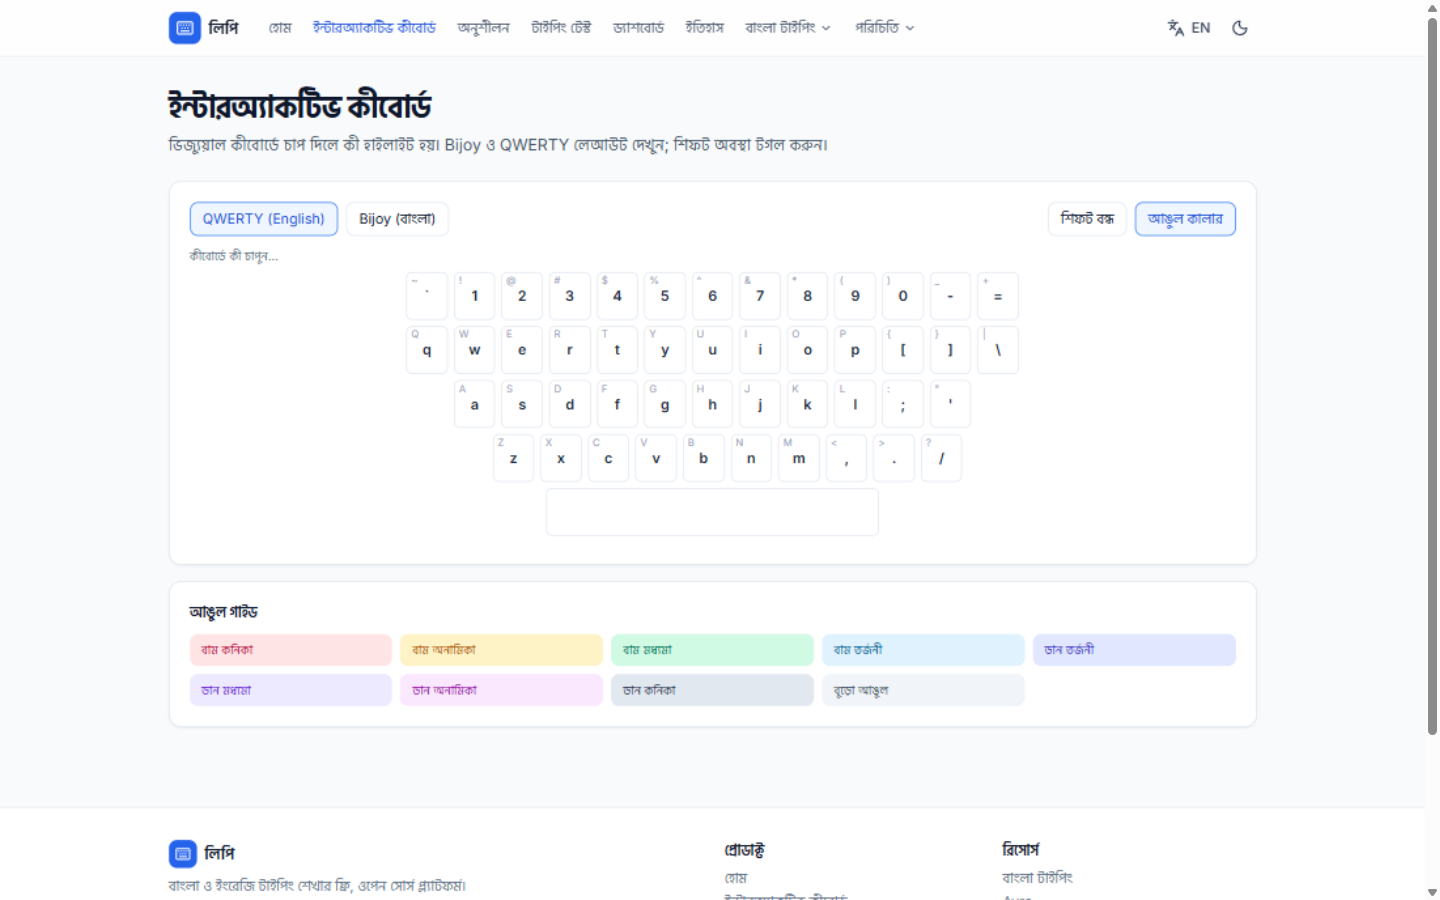
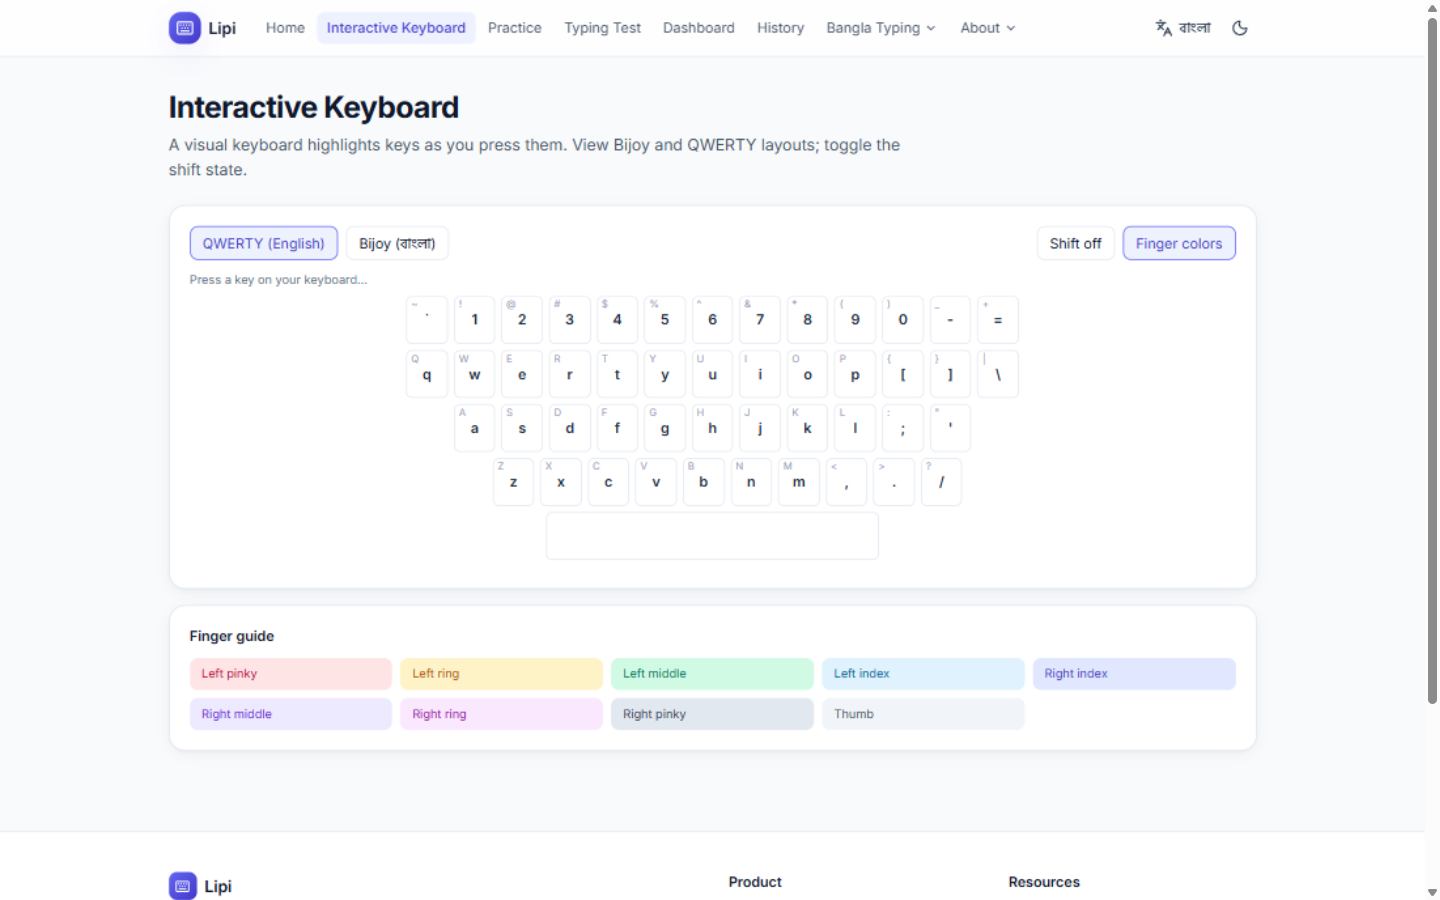
docs: Phase A changelog + refreshed README screenshots (new design)

diff --git a/CHANGELOG.md b/CHANGELOG.md
@@ -6,6 +6,26 @@ The format is based on [Keep a Changelog](https://keepachangelog.com/en/1.1.0/).
 
 ## [Unreleased]
 
+### Fixed (UI/UX audit, 2026-11-27)
+- **Lesson completion UI was stale**: marking a lesson complete wrote localStorage but the React UI (sidebar checkmarks, completed badge) only updated after navigating. Progress now flows through a reactive store (`useSyncExternalStore` + change events), so every view updates instantly.
+- **Typing-test timer drift**: elapsed time was accumulated from fixed 0.2 s interval ticks, which lagged real time whenever the browser throttled a background tab. Elapsed time is now derived from a wall-clock anchor; results are also guarded against double-saving (interval expiry + target-complete + Finish button race, and React StrictMode's double-invoked updaters).
+- **Timed "Another" test ended instantly**: it picked a single short paragraph regardless of the configured duration; it now builds duration-scaled text.
+- **Practice box counted UTF-16 units instead of graphemes**, so Bangla conjuncts (e.g. ক্ষ) let the "done" state trigger before the word was fully typed. Character counting is now grapheme-based, consistent with the typing engine.
+- **Interactive keyboard page blocked Tab and Space** (`preventDefault`) to highlight pressed keys, breaking keyboard navigation and scrolling. Highlighting is now observation-only, skips text fields, and clears on window blur.
+- **Lesson "Back" link went to the homepage** (`to=".."` resolves to `/` on flat routes). It now links to the Learn hub explicitly.
+- Homepage stats inflated "30+ lessons"; corrected to the real count (18).
+
+### Changed (UI/UX redesign)
+- New visual system: indigo primary + teal accent palettes, layered card shadows, rounded-2xl surfaces, gradient hero/CTA helpers, `prefers-reduced-motion` support, refined dark mode.
+- Homepage redesigned: two-column hero with a decorative finger-coloured keyboard preview, three-step "How it works", learning-path cards with **real per-track progress**, honest stats band.
+- Navbar: active-route pills, dropdown highlight for active sections, slide-in mobile drawer (backdrop, Escape-to-close, body scroll lock).
+- Lesson view: icon-led sections, numbered instructions, quiz with radiogroup semantics, score and retry, practice box with done badge and clear button.
+- Typing test: accessible segmented controls, sticky live stats bar, labelled custom-duration input.
+- Practice page is now a genuinely different experience: beginner/sentence drills plus free typing with instant per-character feedback — no timers, nothing saved (measurement stays on the Typing Test page).
+- Dashboard: inline-SVG charts (CPM sparkline, per-method bars, 14-day activity strip) with no charting dependency; stats computation extracted to a pure function for the upcoming cloud data path.
+- History: responsive presentation (cards on mobile, table on desktop) with friendly empty states.
+- Every new string is bilingual (bn/en) and guarded by the dictionary parity test; screenshots in the README refreshed.
+
 ### Fixed
 - **Typing test custom duration**: selecting Custom previously ended a timed test after 0.2 s (the timer compared against the placeholder `0` instead of the chosen minutes).
 - **Typing test language/method mismatch**: an English test could be recorded as "Avro (phonetic)", which skewed the dashboard's per-method best speeds. English now selects QWERTY only; Bangla offers Avro/Bijoy, falling back to Avro when switching back from English.
